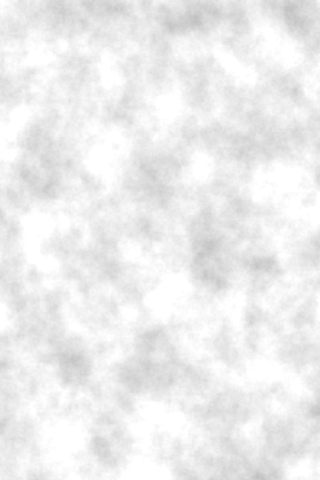
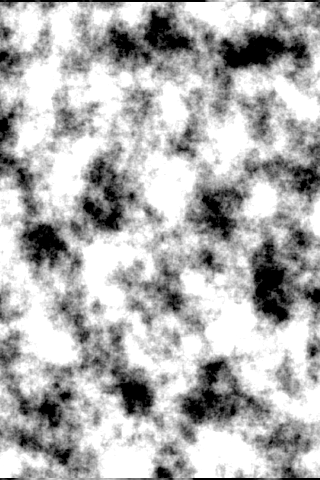
Add and imrprove convolution and dft demo

diff --git a/src/linear_filter.cpp b/src/linear_filter.cpp
@@ -134,7 +134,7 @@ void Image::convolute_blur(int kernel_radius,float speed){
   float maxi_intensity = 1 ;
   std::vector<float> new_intensity(m_size);
   cv::Mat blur_Mat;
-  blur_Mat = cv::imread("../ressources/noise.png", cv::IMREAD_GRAYSCALE);
+  blur_Mat = cv::imread("../ressources/noise3.png", cv::IMREAD_GRAYSCALE);
   Image blur_image(blur_Mat,"blur_image");
 
   // Autodection of the center of the finger (already used in pressure.cpp)
@@ -168,11 +168,11 @@ void Image::convolute_blur(int kernel_radius,float speed){
       }
       int diff_x = x - x_center;
       int diff_y = y - y_center;
-      float rad = std::sqrt(std::pow(diff_x,2) + std::pow(diff_y,2)*0.7);
+      float rad = std::sqrt(std::pow(diff_x,2) + std::pow(diff_y,2)*.6);
       float c_r = weight_exp(1.0/ellipse[2],speed,rad);
-      float c_r_2 = weight_exp(0.65/ellipse[2],speed,rad);
+      float c_r_2 = weight_exp(1.1/ellipse[2],2*speed,rad);
     //  c_r= c_r +std::abs(cos(100*x/m_width)*cos(100*y/m_height));
-      new_intensity[coord_to_index(x,y)] = std::pow(c_r*res+(1-c_r)*std::max(blur_image.m_intensity_array[coord_to_index(x,y)],res),c_r_2);
+      new_intensity[coord_to_index(x,y)] = res*c_r_2 + (1-c_r_2)*std::pow(res,1-blur_image.m_intensity_array[coord_to_index(x,y)]); //std::pow(c_r*res+(1-c_r)*std::max(blur_image.m_intensity_array[coord_to_index(x,y)],res),c_r_2);
     }
 
   }
@@ -204,11 +204,11 @@ void Image::convolute_blur(int kernel_radius,float speed){
       }
       int diff_x = x - x_center;
       int diff_y = y - y_center;
-      float rad = std::sqrt(std::pow(diff_x,2) + std::pow(diff_y,2)*0.7);
+      float rad = std::sqrt(std::pow(diff_x,2) + std::pow(diff_y,2)*.6);
       float c_r = weight_exp(1.0/ellipse[2],speed,rad);
-      float c_r_2 = weight_exp(0.65/ellipse[2],speed,rad);
+      float c_r_2 = weight_exp(1.1/ellipse[2],speed,rad);
     //  c_r= c_r +std::abs(cos(100*x/m_width)*cos(100*y/m_height));
-    new_intensity[coord_to_index(x,y)] =std::pow(c_r*res+(1-c_r)*std::max(blur_image.m_intensity_array[coord_to_index(x,y)],res),c_r_2);
+    new_intensity[coord_to_index(x,y)] =res*c_r_2 + (1-c_r_2)*std::pow(res,1-blur_image.m_intensity_array[coord_to_index(x,y)]);
 
       if (res>maxi_intensity) maxi_intensity = res ;
 
@@ -317,6 +317,7 @@ Mat Image::fourier_convolution(Mat& kernel)
    idft(DFTimage, work, DFT_REAL_OUTPUT); // <- NOTE! Don't inverse transform log-transformed magnitude image!
 
    Mat output_image;
+
    work.convertTo(output_image, CV_8UC1, 255.0/16777216); // We have to rescale by 2^24, then multiply by 255.
    return output_image;
 }

diff --git a/demo/dtf_convolution_demo.cpp b/demo/dtf_convolution_demo.cpp
@@ -1,0 +1,56 @@
+#include "linear_filter.hpp"
+
+int main(int argc, char const *argv[]) {
+  cv::Mat m_image1;
+  std::string m_name ;
+  if (argc == 1){
+    m_name = "../ressources/woman.png" ;
+  }
+  else{
+    m_name = (std::string)argv[1];
+  }
+
+
+  m_image1 = cv::imread(m_name, cv::IMREAD_GRAYSCALE);
+  cv::Mat m_image2;
+  m_image2 = cv::imread(m_name, cv::IMREAD_GRAYSCALE);
+
+  // Creation of Gaussian kernels
+  int r = 10;
+  float sigma_clip = 4.0;
+  double sigma = (r/sigma_clip+0.5f);
+  cv::Mat kX = cv::getGaussianKernel(2*r+1, sigma, CV_32F); // Get the Gaussian mask from OpenCV
+  cv::Mat kY = cv::getGaussianKernel(2*r+1, sigma, CV_32F);
+  cv::Size opti_size = cv::Size(cv::getOptimalDFTSize(m_image1.cols), cv::getOptimalDFTSize(m_image1.rows));
+  cv::Mat kernel2 = createFilterMask(opti_size, kX, kY); // Kernel used for convolution in Fourier Sapce
+  std::cout << "Sum of kernel : " << cv::sum(kernel2)[0] << '\n';
+
+  std::vector<float> kernelX = Mat_to_vector(kX);
+  std::vector<float> kernelY = Mat_to_vector(kY);
+
+
+  (void)argc;
+  std::cout << "Demo convolution classic :" << std::endl ;
+  //std::vector<float> kernel = {0,0,0,0,1,0,0,0,0};
+  //std::vector<float> kernel = {1/9.0,1/9.0,1/9.0,1/9.0,1/9.0,1/9.0,1/9.0,1/9.0,1/9.0};
+  // std::vector<float> kernel = {-1,-1,-1,-1,9,-1,-1,-1,-1,-1};
+  //std::vector<float> kernel = {-1,0,1,-2,0,2,-1,0,1};
+  Image im1(m_image1, m_name);
+  im1.convolute_opti(kernelY, kernelX);
+  im1.display_Mat();
+
+
+  // Fourier convolution
+  std::cout << "Demo convolution  in Fourier Space :" << std::endl ;
+  Image im2(m_image2, m_name);
+  cv::Mat convoluted = im2.fourier_convolution(kernel2);
+  Image im_result(convoluted, "image_convoluted");
+  im_result.display_Mat();
+
+  // Difference between two results
+  Image diff = im_result.Absolute_error_image(im1);
+  diff.display_Mat();
+
+
+  return 0;
+}

diff --git a/demo/convolution_demo.cpp b/demo/convolution_demo.cpp
@@ -12,44 +12,16 @@ int main(int argc, char const *argv[]) {
 
 
   m_image1 = cv::imread(m_name, cv::IMREAD_GRAYSCALE);
-  cv::Mat m_image2;
-  m_image2 = cv::imread(m_name, cv::IMREAD_GRAYSCALE);
-
-  // Creation of Gaussian kernels
-  int r = 10;
-  float sigma_clip = 4.0;
-  double sigma = (r/sigma_clip+0.5f);
-  cv::Mat kX = cv::getGaussianKernel(2*r+1, sigma, CV_32F); // Get the Gaussian mask from OpenCV
-  cv::Mat kY = cv::getGaussianKernel(2*r+1, sigma, CV_32F);
-  cv::Size opti_size = cv::Size(cv::getOptimalDFTSize(m_image1.cols), cv::getOptimalDFTSize(m_image1.rows));
-  cv::Mat kernel2 = createFilterMask(opti_size, kX, kY); // Kernel used for convolution in Fourier Sapce
-  std::cout << "Sum of kernel : " << cv::sum(kernel2)[0] << '\n';
-
-  std::vector<float> kernelX = Mat_to_vector(kX);
-  std::vector<float> kernelY = Mat_to_vector(kY);
-
-
-  (void)argc;
+  Image im1(m_image1, m_name);
   std::cout << "Demo convolution classic :" << std::endl ;
   //std::vector<float> kernel = {0,0,0,0,1,0,0,0,0};
   //std::vector<float> kernel = {1/9.0,1/9.0,1/9.0,1/9.0,1/9.0,1/9.0,1/9.0,1/9.0,1/9.0};
-  // std::vector<float> kernel = {-1,-1,-1,-1,9,-1,-1,-1,-1,-1};
-  //std::vector<float> kernel = {-1,0,1,-2,0,2,-1,0,1};
-  Image im1(m_image1, m_name);
-  im1.convolute_opti(kernelY, kernelX);
+  std::vector<float> kernel = {-1,0,1,-2,0,2,-1,0,1}; //Sobel vertical kernel
+  im1.convolute_classic(kernel);
+  im1.save_Mat();
   im1.display_Mat();
 
 
-  // Fourier convolution
-  std::cout << "Demo convolution  in Fourier Space :" << std::endl ;
-  Image im2(m_image2, m_name);
-  cv::Mat convoluted = im2.fourier_convolution(kernel2);
-  Image im_result(convoluted, "image_convoluted");
-  im_result.display_Mat();
-
-  // Difference between two results
-  Image diff = im_result.Absolute_error_image(im1);
-  diff.display_Mat();
 
 
   return 0;

diff --git a/demo/blur_demo.cpp b/demo/blur_demo.cpp
@@ -13,6 +13,7 @@ int main(int argc, char const *argv[]) {
   m_image1 = cv::imread(m_name, cv::IMREAD_GRAYSCALE);
   Image im1(m_image1, m_name);
   im1.convolute_blur(5,5); // convolute blur(kernel_radius,speed)
+  im1.save_Mat();
   im1.display_Mat();
   return 0;
 }
